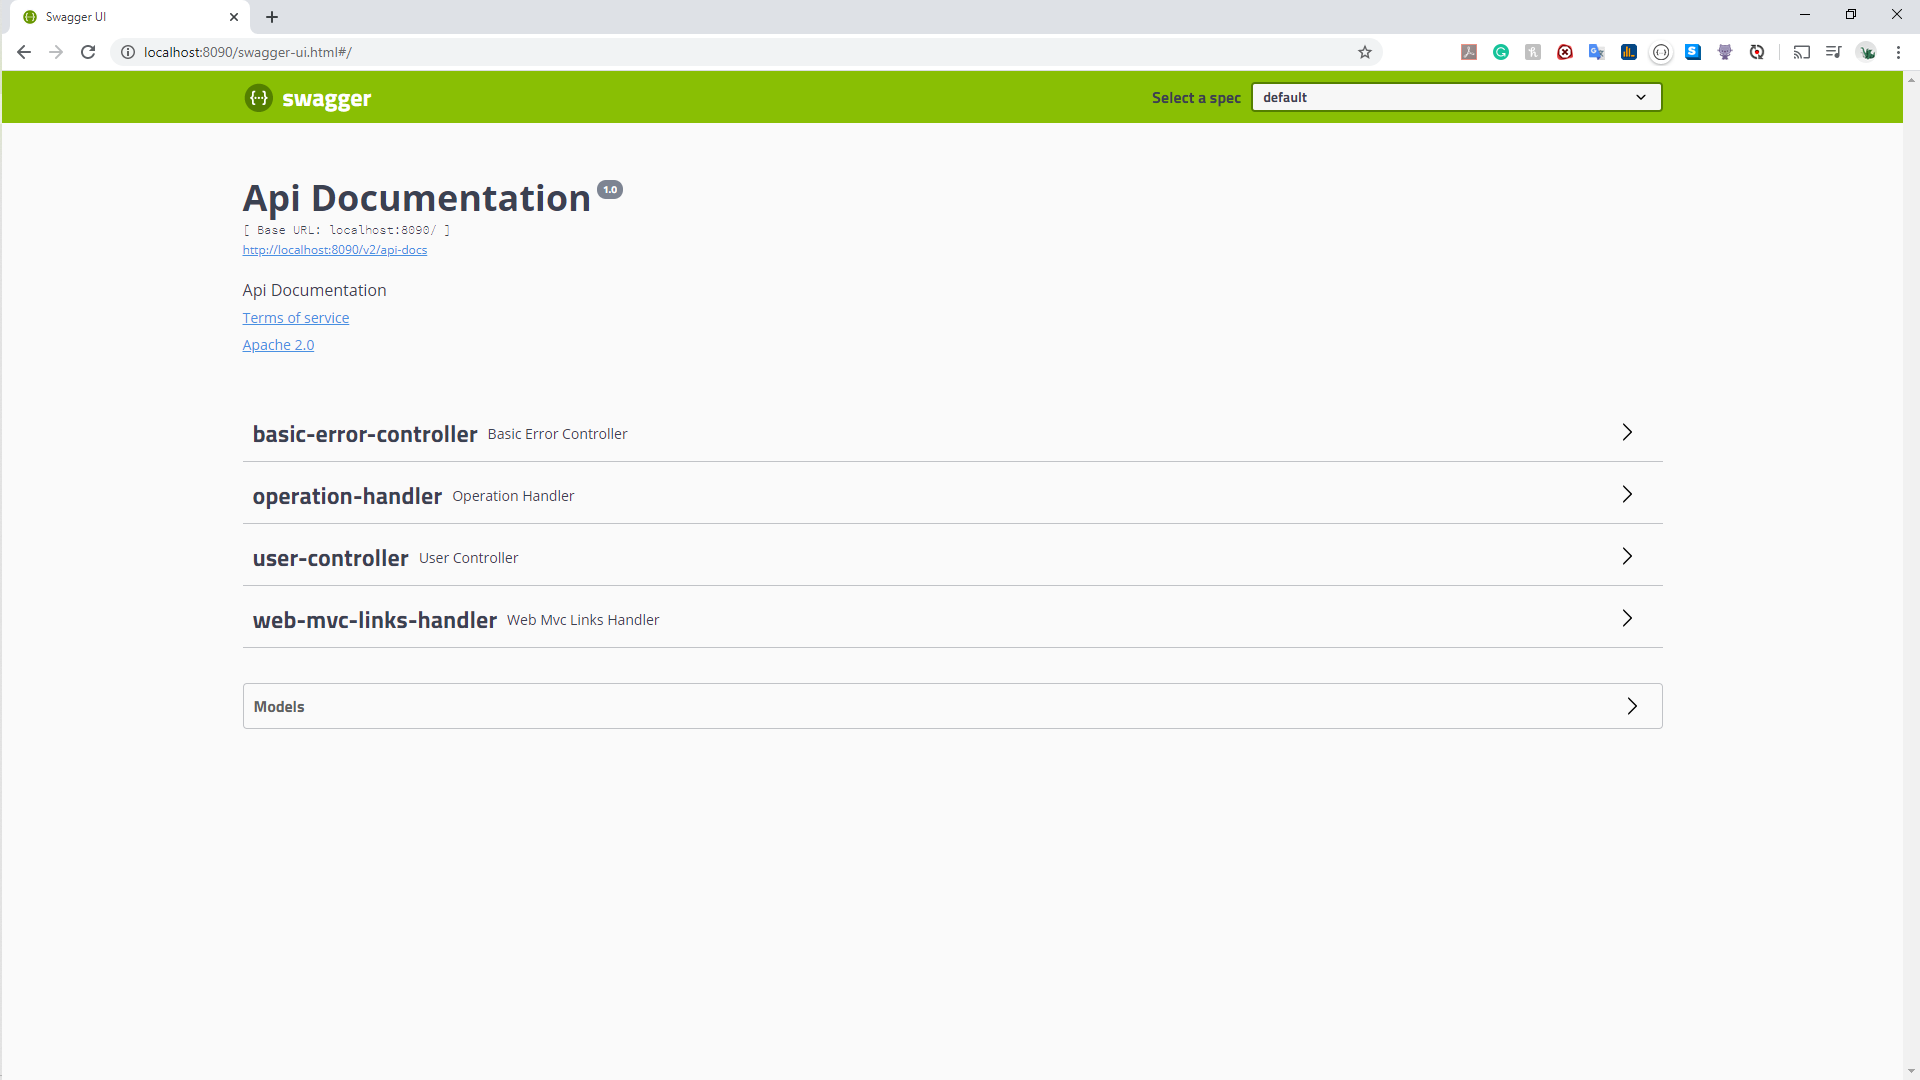
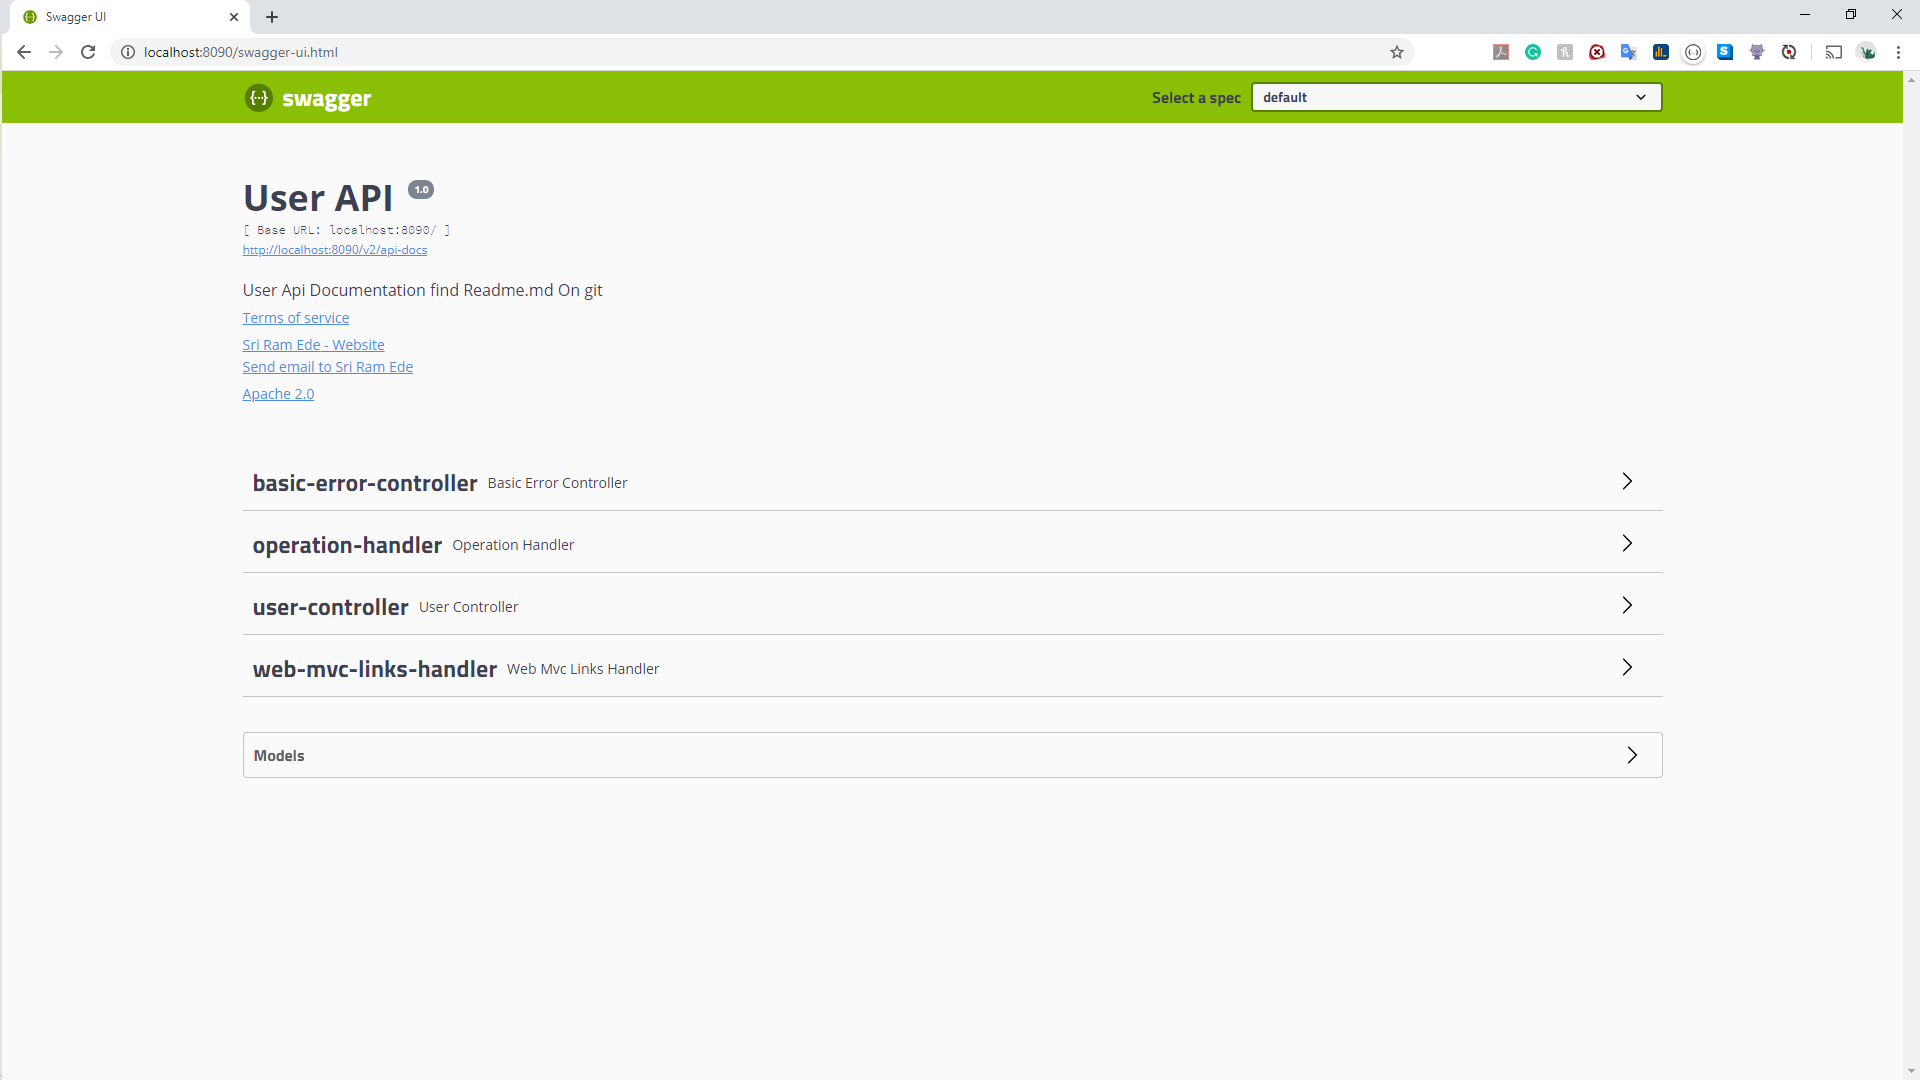
added swagger-config used customized values apart from default template

diff --git a/src/main/java/com/user/User/swaggerconfig/SwaggerConfig.java b/src/main/java/com/user/User/swaggerconfig/SwaggerConfig.java
@@ -1,0 +1,49 @@
+package com.user.User.swaggerconfig;
+
+import java.util.ArrayList;
+import java.util.Arrays;
+import java.util.HashSet;
+import java.util.Set;
+
+import org.springframework.context.annotation.Bean;
+import org.springframework.context.annotation.Configuration;
+
+import springfox.documentation.builders.PathSelectors;
+import springfox.documentation.builders.RequestHandlerSelectors;
+import springfox.documentation.service.ApiInfo;
+import springfox.documentation.service.Contact;
+import springfox.documentation.service.VendorExtension;
+import springfox.documentation.spi.DocumentationType;
+import springfox.documentation.spring.web.plugins.Docket;
+import springfox.documentation.swagger2.annotations.EnableSwagger2;
+
+@EnableSwagger2
+@Configuration
+public class SwaggerConfig {
+
+	// from APiInfo documentation
+
+	public static final Contact DEFAULT_CONTACT = new Contact("Sri Ram Ede", "https://www.linkedin.com/in/sri-ram-ede",
+			"sriramede.in@gmail.com");
+
+	private static final ApiInfo Customize_API_Info = new ApiInfo("User API ",
+			" User Api Documentation find Readme.md On git", "1.0", "urn:tos", DEFAULT_CONTACT, "Apache 2.0",
+			"http://www.apache.org/licenses/LICENSE-2.0", new ArrayList<VendorExtension>());
+
+	private static final Set<String> Default_produces_Consumes = new HashSet<>(
+			Arrays.asList("application/json", "application/xml"));
+
+	// follow https://springfox.github.io/springfox/docs/current/ documentation to
+	// configure swagger
+
+	@Bean
+	public Docket api() {
+		return new Docket(DocumentationType.SWAGGER_2)
+				.apiInfo(Customize_API_Info)
+				.produces(Default_produces_Consumes)
+				.consumes(Default_produces_Consumes);
+//				.select()
+//				.apis(RequestHandlerSelectors.any())
+//				.paths(PathSelectors.any()).build();
+	}
+}

diff --git a/src/main/java/com/user/User/UserApplication.java b/src/main/java/com/user/User/UserApplication.java
@@ -12,23 +12,11 @@ import springfox.documentation.spring.web.plugins.Docket;
 import springfox.documentation.swagger2.annotations.EnableSwagger2;
 
 @SpringBootApplication
-@EnableSwagger2
-@Configuration
+
 public class UserApplication {
-	
-	//follow https://springfox.github.io/springfox/docs/current/ documentation to configure swagger
-	
-	@Bean
-    public Docket api() { 
-        return new Docket(DocumentationType.SWAGGER_2)  
-          .select()                                  
-          .apis(RequestHandlerSelectors.any())              
-          .paths(PathSelectors.any())                          
-          .build();                                           
-    }
 
 	public static void main(String[] args) {
 		SpringApplication.run(UserApplication.class, args);
-	} 
+	}
 
 }

diff --git a/src/main/java/com/user/User/model/User.java b/src/main/java/com/user/User/model/User.java
@@ -12,13 +12,20 @@ import javax.xml.bind.annotation.XmlRootElement;
 
 import org.apache.logging.log4j.message.Message;
 
+import io.swagger.annotations.ApiModel;
+import io.swagger.annotations.ApiModelProperty;
+import io.swagger.annotations.ApiParam;
+
 @XmlRootElement
+@ApiModel( description = "User model obj details")							//swagger docmtn
 public class User {
 
 	private int id;
 	@Valid @NotBlank @Size(min = 3,message = "Name should not be less than 3 chars")
+	@ApiModelProperty(notes="Name should not be less than 3 chars")		//swagger docmtn
 	private String name;
 	@Past(message = "Date should not be  present day")
+	@ApiModelProperty(notes="Date should not be of present of future value") //swagger docmtn
 	private Date dateOfBirth;
 
 	public User() {

diff --git a/README.md b/README.md
@@ -25,7 +25,7 @@
 
 #### XML<=> JSON with maven dependence and request header with Accept=application/xml,application/json,@XMLRootElement
 
-#### @EnableSwagger2 ,Docket,
+#### @EnableSwagger2 ,Docket,@ApiModel,@ApiModelParam
 
 #### Libraries
 
